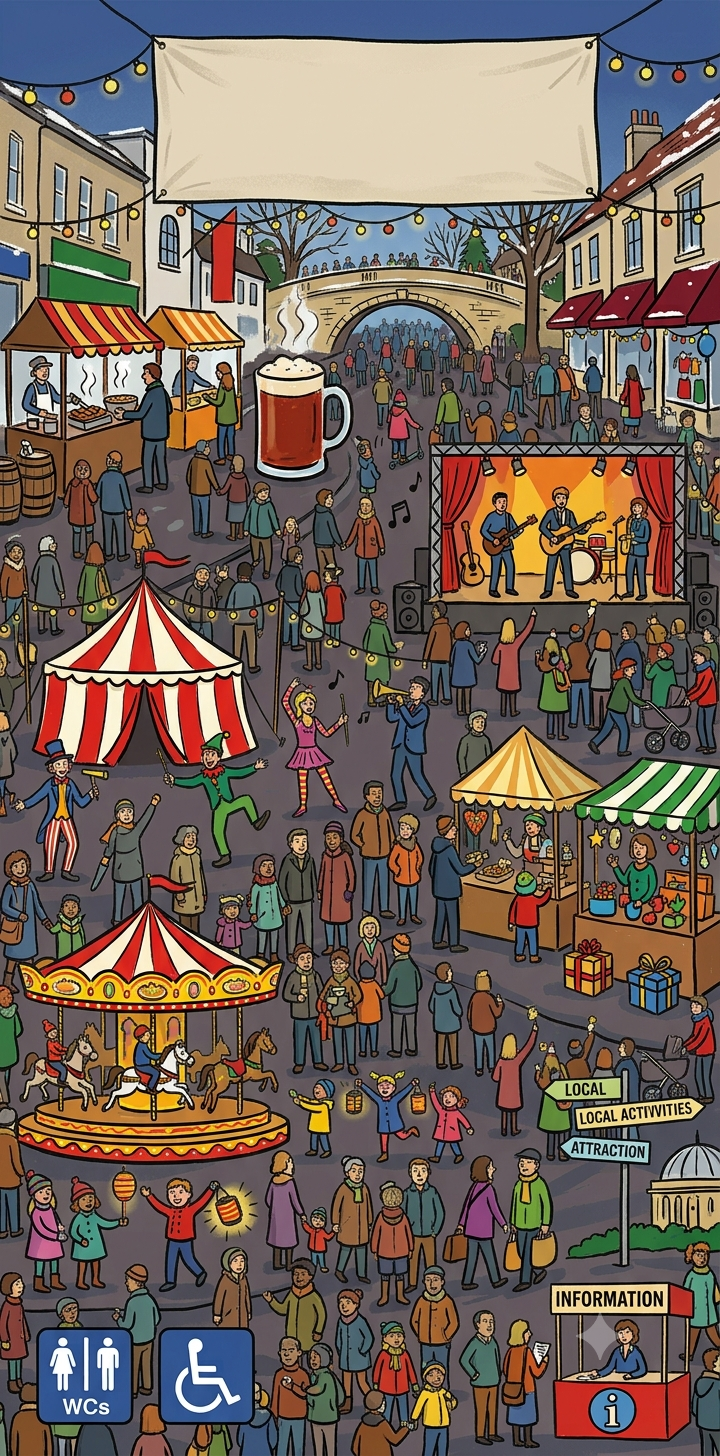
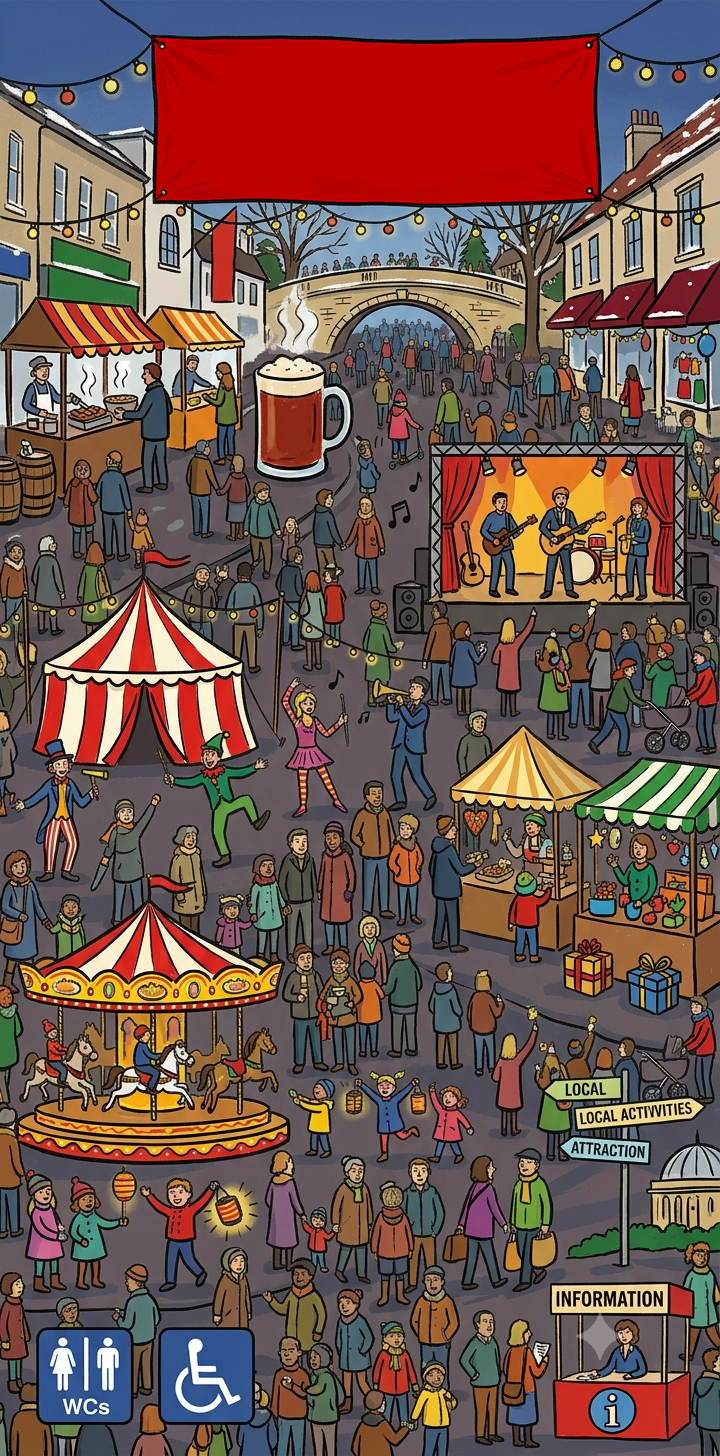
Added (non-functional) save choice dialog

Changed region(s): [[0.2139, 0.0, 0.8556, 0.1545]]

diff --git a/lib/chooser_page.dart b/lib/chooser_page.dart
@@ -2,12 +2,14 @@ import 'dart:io';
 import 'dart:ui' as ui;
 import 'dart:math';
 import 'dart:async';
+import 'package:flutter/services.dart';
 import 'package:flutter/material.dart';
 import 'package:mill_road_winter_fair_app/android_nav_bar_detector.dart';
 
 
 class ChooserPage extends StatefulWidget {
-  const ChooserPage({super.key});
+  const ChooserPage({required this.onChangeTitle, super.key});
+  final void Function(String)? onChangeTitle;
   @override
   State<ChooserPage> createState() => _ChooserPageState();
 }
@@ -25,8 +27,9 @@ class _ChooserPageState extends State<ChooserPage> with SingleTickerProviderStat
     Hotspot(id: 'Services', left: 0, top: 0.881, width: 0.409, height: 0.118),
     Hotspot(id: 'Info', left: 0.668, top: 0.881, width: 0.331, height: 0.118),
   ];
-  int _activeHotspot = 0;
-  bool _idleMode = true;
+  int _activeHotspot = 0; // the hotspot that is currently glowing
+  String? _chosenHotspotID; // ID of the hotspot that the user tapped on
+  bool _idleMode = true; // kicks in when user hasn't done anything for a period
   late final AnimationController _animationController;
   final highlightedHotspots = <String>{
     'Info',
@@ -39,6 +42,7 @@ class _ChooserPageState extends State<ChooserPage> with SingleTickerProviderStat
     'Children’s'
   };
 
+
   @override
   void initState() {
     super.initState();
@@ -47,25 +51,18 @@ class _ChooserPageState extends State<ChooserPage> with SingleTickerProviderStat
       vsync: this,
       duration: const Duration(seconds: 3),
     );
-
     _animationController.addStatusListener((status) {
-
       if (status == AnimationStatus.completed) {
-
         setState(() {
-
-          _activeHotspot =
-              (_activeHotspot + 1) % hotspots.length;
-
+          _activeHotspot = (_activeHotspot + 1) % hotspots.length;
         });
-
         _animationController.forward(from: 0);
       }
-
     });
-
     _animationController.forward();
+    WidgetsBinding.instance.addPostFrameCallback((_) => widget.onChangeTitle?.call('Welcome!'));
   }
+
 
   @override
   void dispose() {
@@ -78,20 +75,63 @@ class _ChooserPageState extends State<ChooserPage> with SingleTickerProviderStat
 
   void userInteraction() {
     _idleTimer?.cancel();
-    if (_idleMode) {
-      setState(() {
-        _idleMode = false;
-      });
-    }
+    if (_idleMode) setState(() { _idleMode = false; });
     _animationController.stop();
     _idleTimer = Timer(
       const Duration(seconds: 5),
       () {
-        setState(() {
-          _idleMode = true;
-        });
+        setState(() { _idleMode = true; });
         _animationController.forward(from: 0);
       },
+    );
+  }
+
+
+  void chooseDialog(BuildContext theBuildContext, String theChoice) {
+    const textStyle = TextStyle(fontSize: 18);
+    const titleStyle = TextStyle(fontWeight: FontWeight.bold, fontSize: 20);
+    showDialog(
+      context: context,
+      builder: (BuildContext context) {
+        return Dialog(
+          insetPadding: EdgeInsets.all(10.0 + ((MediaQuery.of(theBuildContext).size.height.toInt() - 500) / 50).toInt()),
+          child: LayoutBuilder(
+            builder: (context, constraints) {
+              final maxWidth = constraints.maxWidth.clamp(300.0, 500.0);
+              return ConstrainedBox(
+                constraints: BoxConstraints(maxWidth: maxWidth),
+                child: Padding(
+                  padding: EdgeInsets.all(16.0 + ((MediaQuery.of(theBuildContext).size.height.toInt() - 500) / 50).toInt()),
+                  child: Column(spacing: 12,
+                        mainAxisSize: MainAxisSize.min,
+                        crossAxisAlignment: CrossAxisAlignment.start,
+                        children: [
+                          Text(style: titleStyle, 'Remember this choice?'),
+                          Text(style: textStyle, 'Would you like to save this choice so that $theChoice always appears when you open the app?'),
+                          Row(mainAxisAlignment: MainAxisAlignment.end, spacing: 12, children: [
+                            TextButton(
+                              onPressed: () {
+                                HapticFeedback.lightImpact();
+                                Navigator.pop(context);
+                              },
+                              child: Text('Don’t save', style: textStyle.copyWith(color: Theme.of(context).colorScheme.tertiary)),
+                            ),
+                            TextButton(
+                              onPressed: () {
+                                HapticFeedback.lightImpact();
+                                Navigator.pop(context);
+                              },
+                              child: Text('Save', style: textStyle.copyWith(color: Theme.of(context).colorScheme.tertiary)),
+                            ),
+                          ]),
+                        ],
+                      ),
+                    ),            
+                  );
+            }
+          )
+        );
+      }
     );
   }
 
@@ -107,12 +147,12 @@ class _ChooserPageState extends State<ChooserPage> with SingleTickerProviderStat
       child: Scaffold(
         body: Listener(
           onPointerDown: (_) => userInteraction(),
-          onPointerMove: (_) => userInteraction(), //toto needed?
           child: RepaintBoundary(
             child: LayoutBuilder(
               builder: (context, constraints) {
                 return Stack(fit: StackFit.expand, children: [
                   Image.asset('assets/chooserPage/chooserPage_background.png', fit: BoxFit.fill),
+                  Positioned(left: 115, top: 22, child: Image(image: AssetImage('assets/MRWF25_leaflet_banner.png'), width: 180)),
                   Positioned.fill(
                     child: IgnorePointer(
                       child: CustomPaint(
@@ -134,8 +174,10 @@ class _ChooserPageState extends State<ChooserPage> with SingleTickerProviderStat
                       child: GestureDetector(
                         behavior: HitTestBehavior.opaque,
                         onTap: () {
+                          _chosenHotspotID = hotspot.id;
                           userInteraction();
-                          debugPrint('Selected ${hotspot.id}');
+                          chooseDialog(context, _chosenHotspotID!);
+                          debugPrint('Selected $_chosenHotspotID');
                         },
                         child: const SizedBox.expand(),
                       ),
@@ -153,8 +195,8 @@ class _ChooserPageState extends State<ChooserPage> with SingleTickerProviderStat
 
 
 class Hotspot {
-  final String id;
 
+  final String id;
   // Coordinates are fractions of image size (0.0 - 1.0)
   final double left;
   final double top;
@@ -178,6 +220,7 @@ class Hotspot {
     );
   }
 }
+
 
 class HotspotPainter extends CustomPainter {
 

diff --git a/lib/main.dart b/lib/main.dart
@@ -226,7 +226,7 @@ class HomePageState extends State<HomePage> {
   final _savedListingsKey = GlobalKey<FilteredListingsPageState>();
   
   late final _pages = [
-    ChooserPage(),
+    ChooserPage(onChangeTitle: onChangeAppBarTitle),
     MapPage(listings: listings, key: mapPageKey),
     FilteredListingsPage(filterPrimaryType: "all", listings: listings, key: _allListingsKey, onChangeTitle: onChangeAppBarTitle),
     TimetablePage(),
